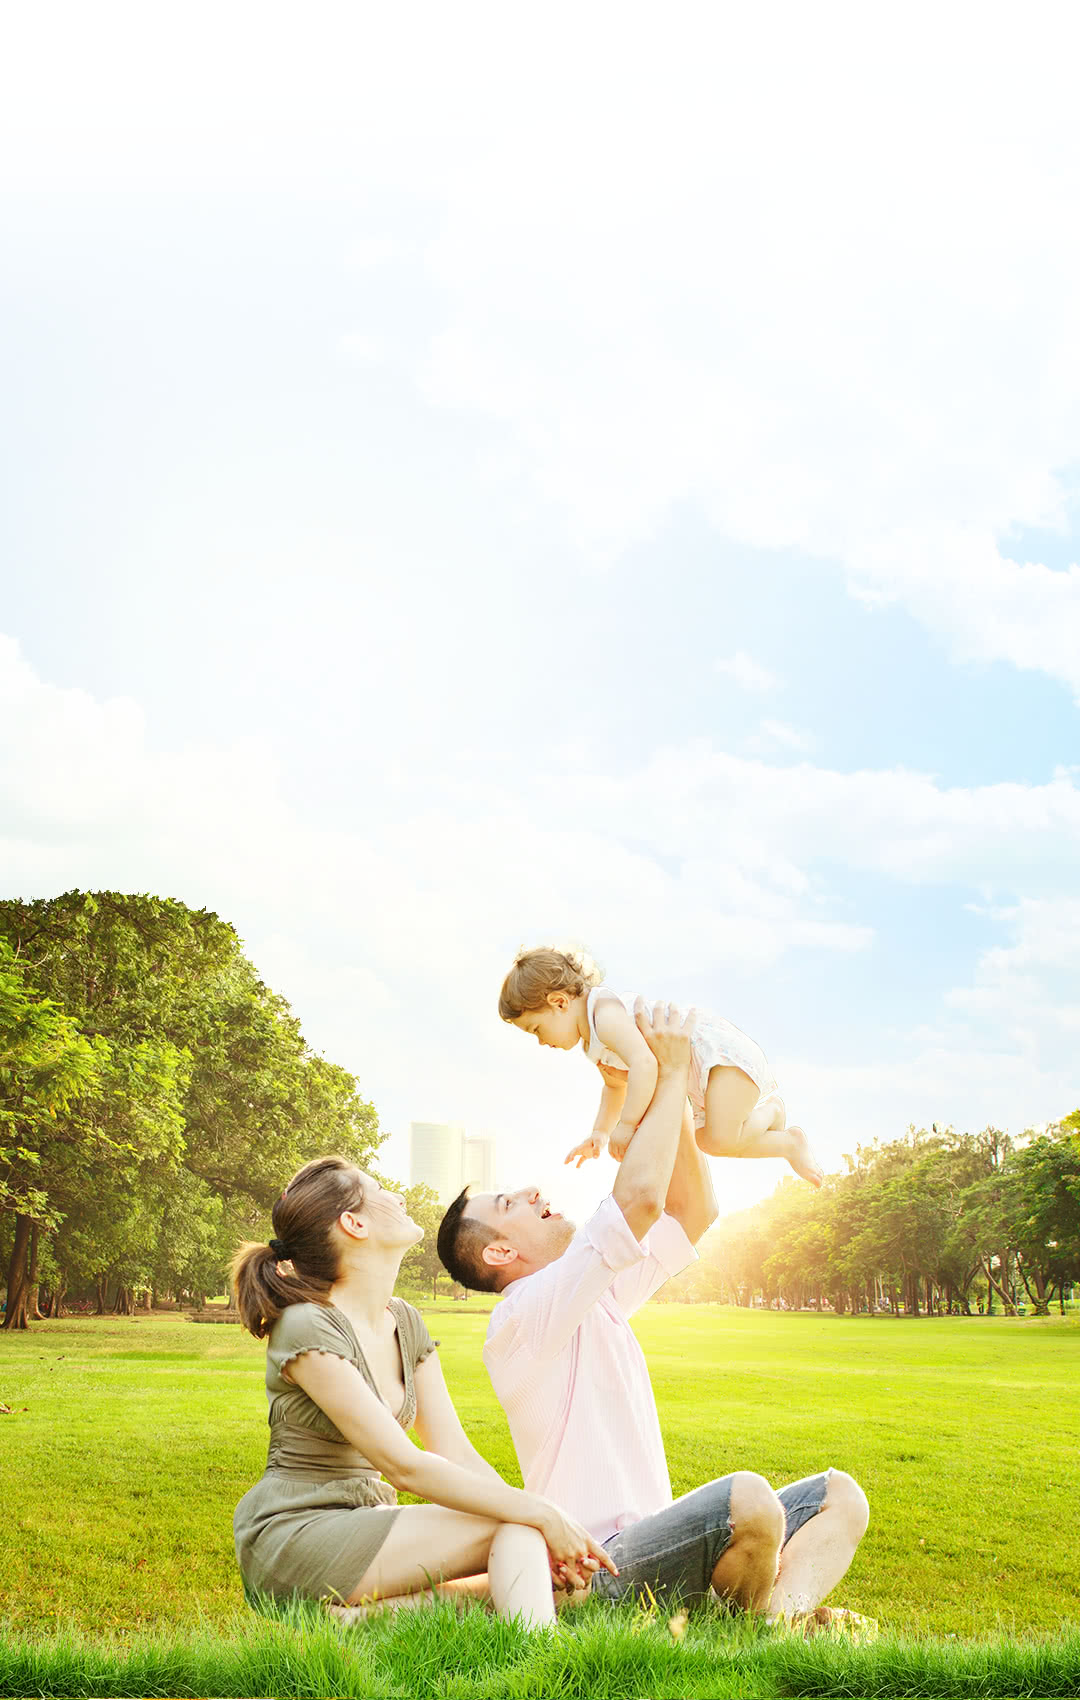
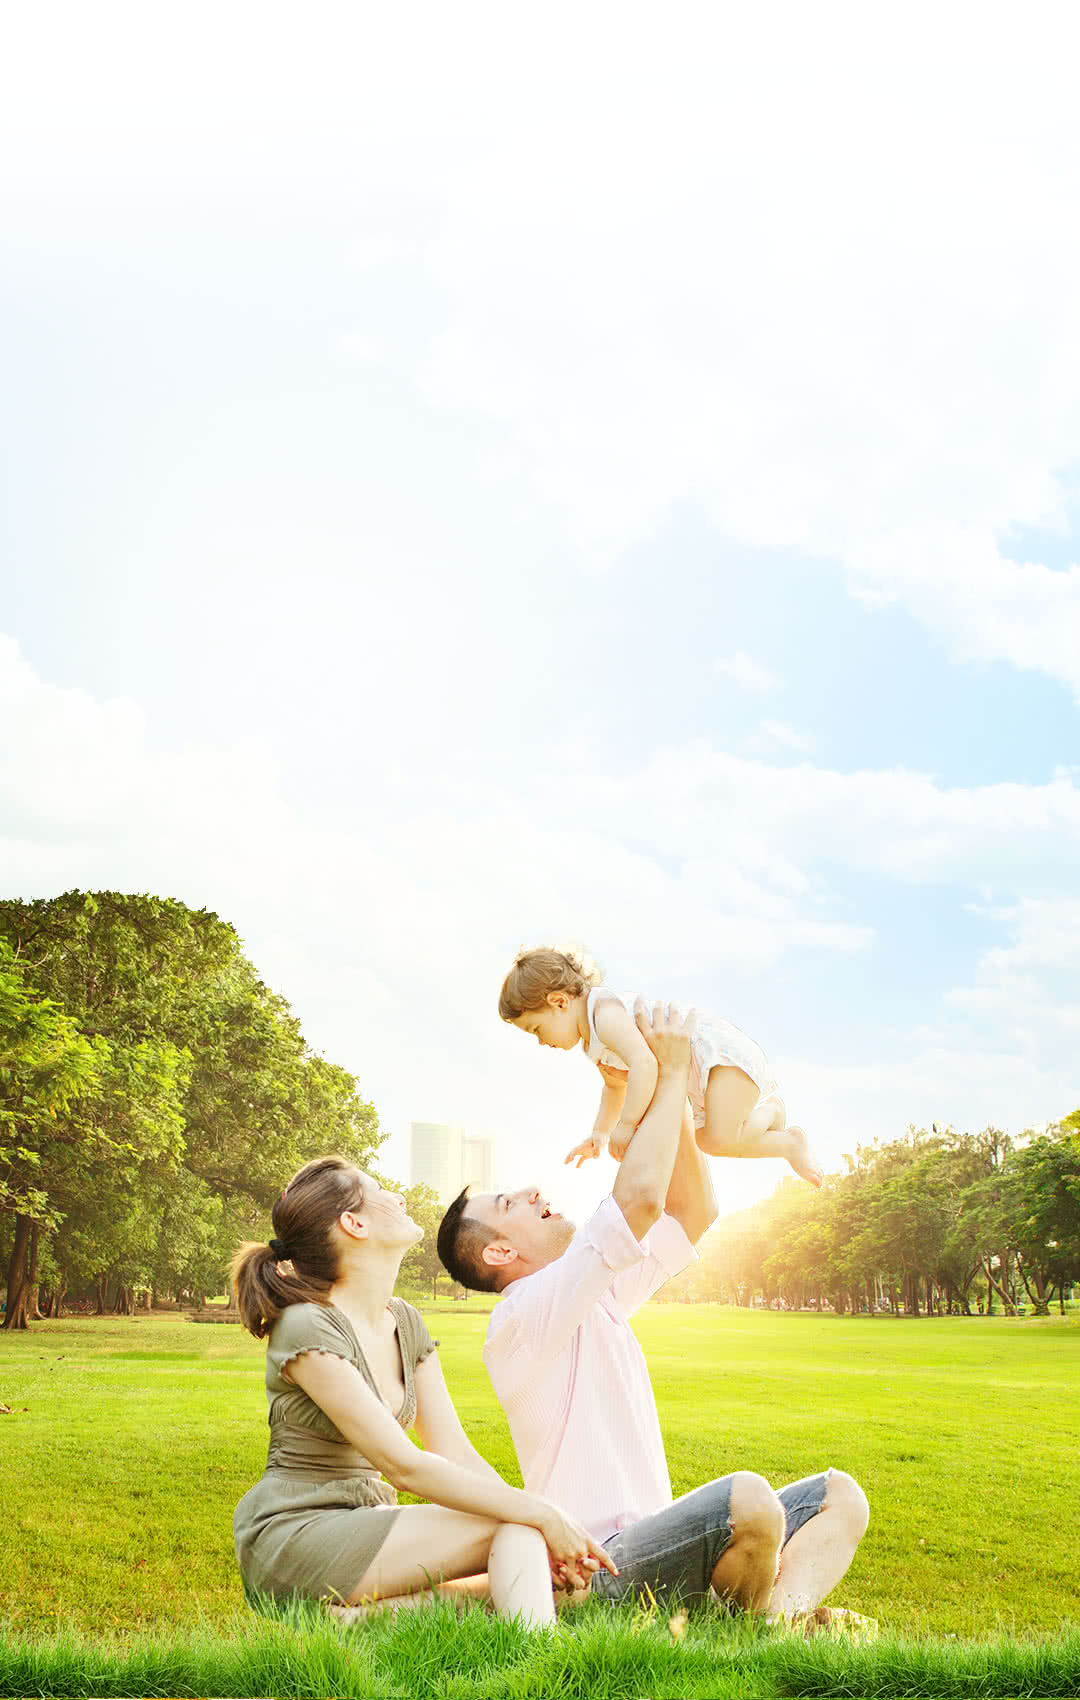
images optimized

diff --git a/Checklist.md b/Checklist.md
@@ -3,9 +3,9 @@
 All of these need to be checked manually, changed and then committed. System will refuse to deploy the site if some of the checkboxes are left empty. To keep things consistent items that were checked and found to be okay developer needs to mark with `x` while items that don't apply need to be marked with `x` and list item prepended with `>`.
 
 - Optimization:
-	- [ ] PNG images are optimized using `optipng` command;
-	- [ ] JPEG images are converted from original PNG and optimized using `guetzli` command;
-	- [ ] SVG images are cleaned and optimized;
+	- [x] PNG images are optimized using `optipng` command;
+	- [x] JPEG images are converted from original PNG and optimized using `guetzli` command;
+	- [x] SVG images are cleaned and optimized;
 	- [ ] Make sure site scores 95+ on Page Speed Insights (ideally 100);
 - Site specific items:
 	- [ ] `system_init.xml` file contains all the modules used;
